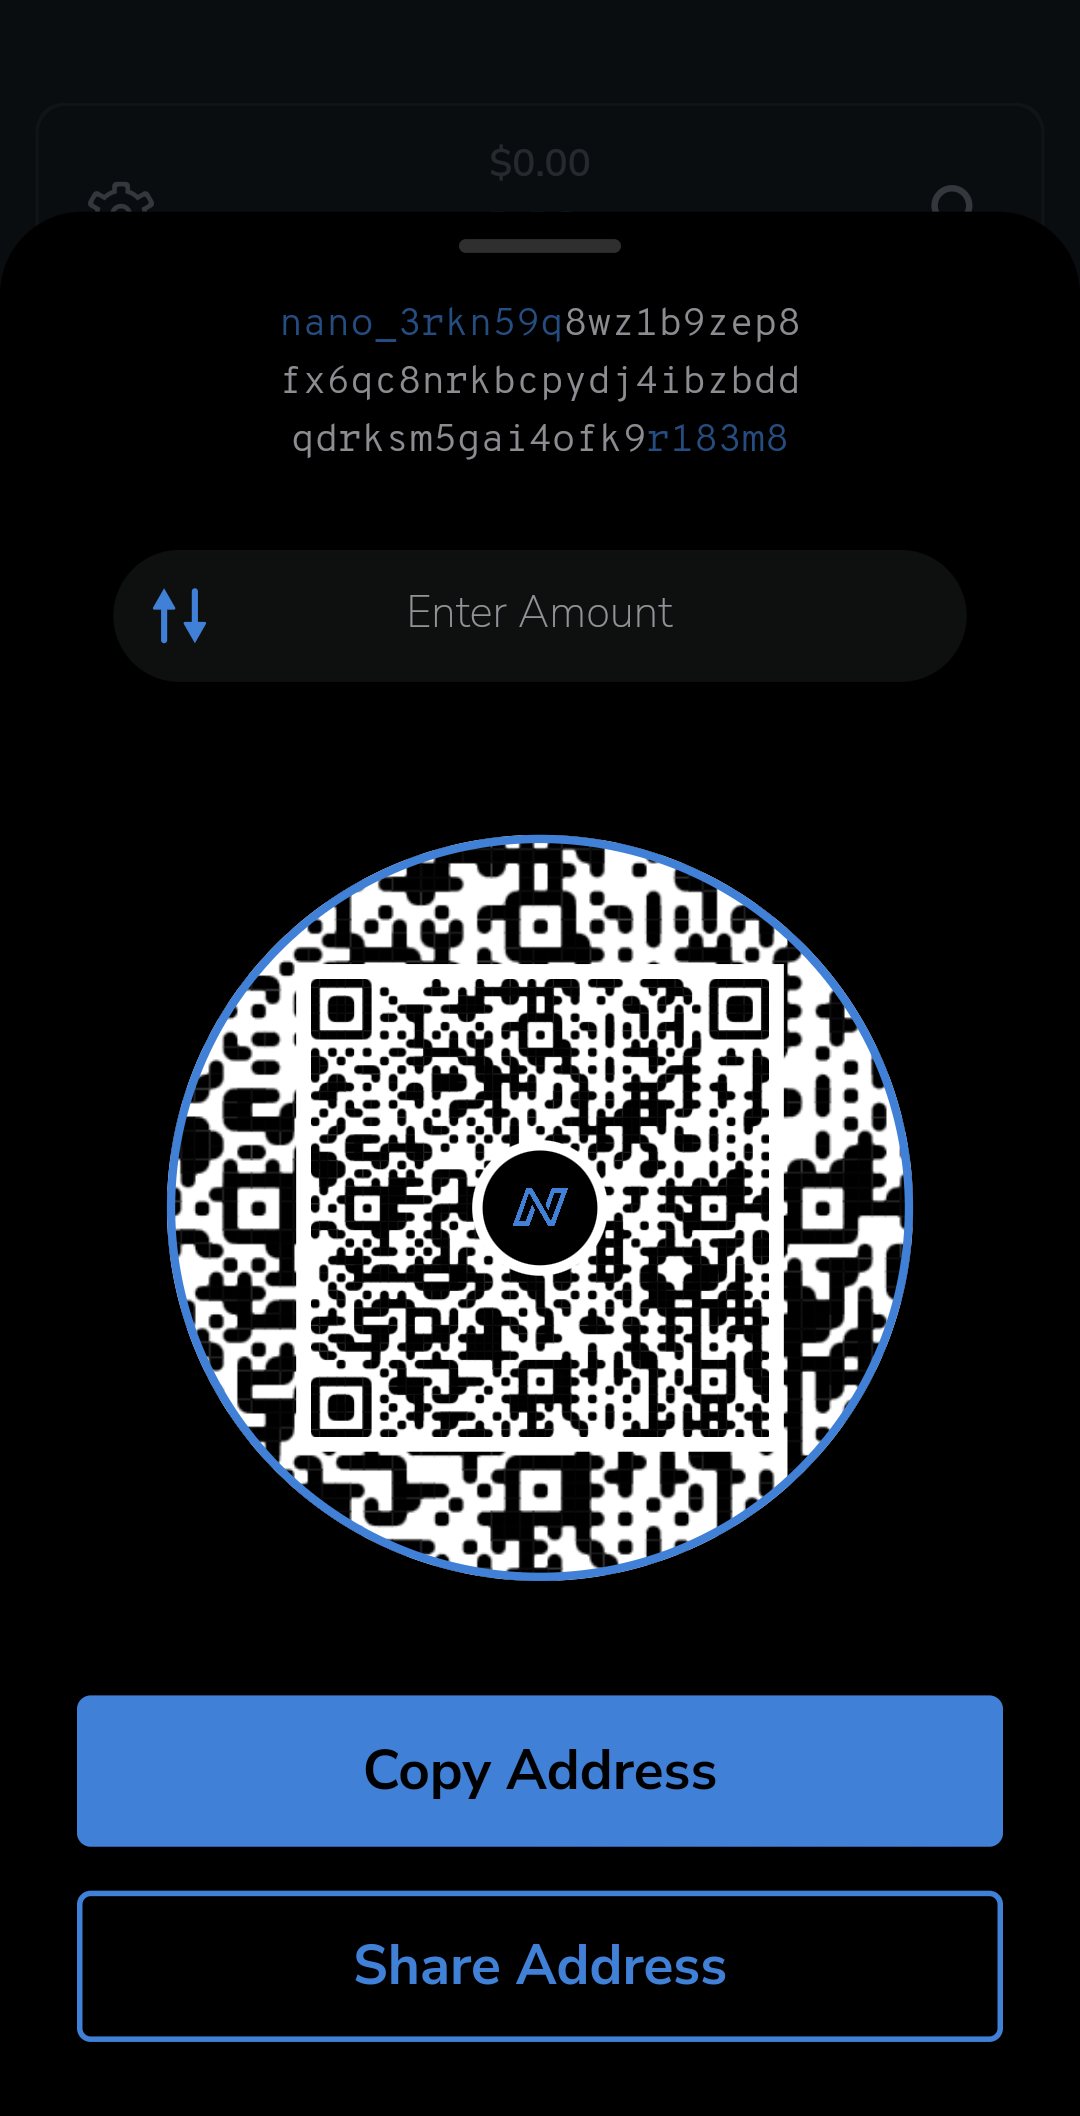
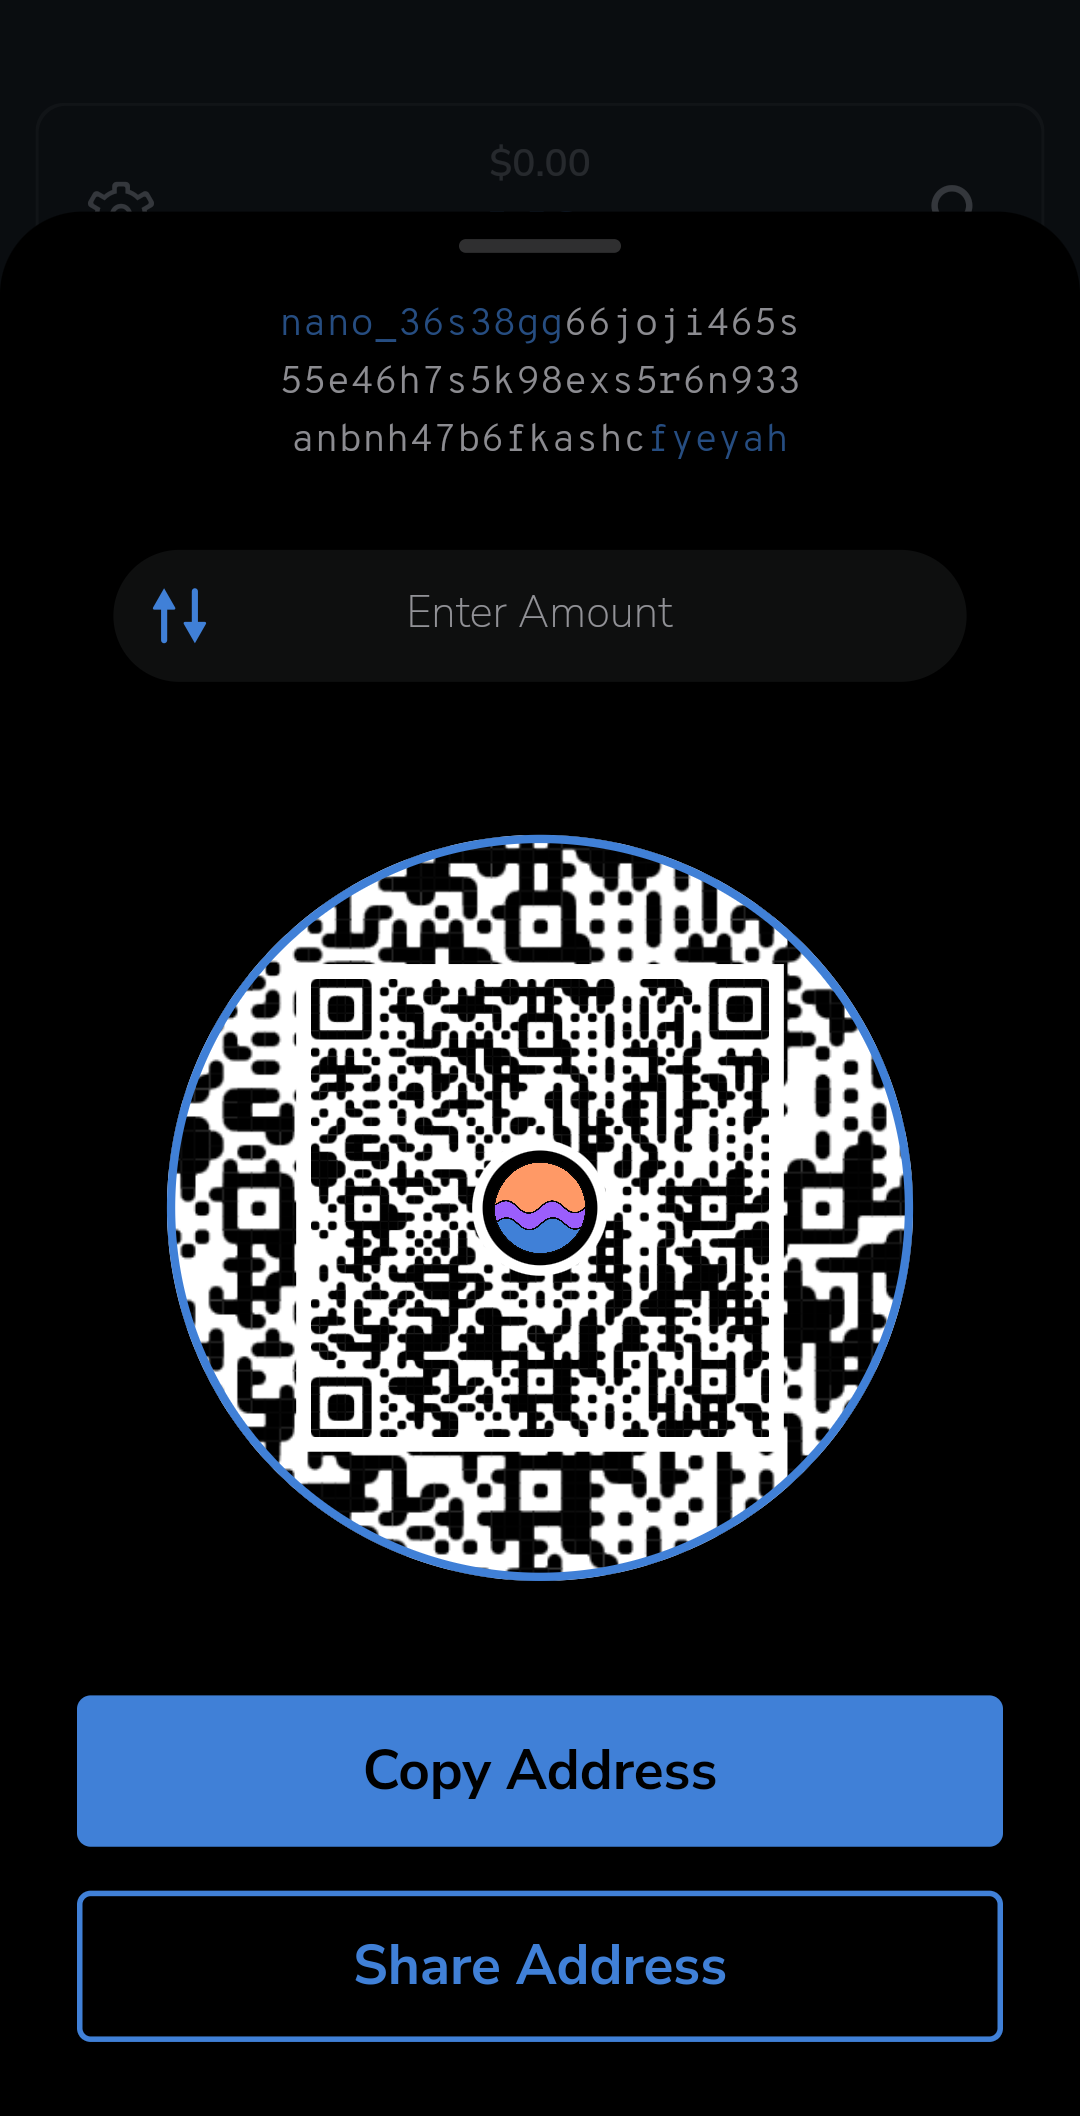
update screenshots

diff --git a/lib/ui/settings/backupseed_qr_sheet.dart b/lib/ui/settings/backupseed_qr_sheet.dart
@@ -148,7 +148,7 @@ class _BackupSeedQRSheetStateState extends State<BackupSeedQRSheet> {
                                       ),
                                     ),
                                   ),
-                                  const Image(image: AssetImage("assets/logo-square.png")),
+                                  const Image(image: AssetImage("assets/logo.png")),
                                 ),
                               ),
                             // This is for hiding the share card
@@ -228,7 +228,7 @@ class _BackupSeedQRSheetStateState extends State<BackupSeedQRSheet> {
                                 height: computedMaxSize / 8,
                                 child: ClipRRect(
                                   borderRadius: BorderRadius.circular(8.0),
-                                  child: const Image(image: AssetImage("assets/logo-square.png")),
+                                  child: const Image(image: AssetImage("assets/logo.png")),
                                 ),
                               ),
                             ),

diff --git a/lib/ui/receive/receive_sheet.dart b/lib/ui/receive/receive_sheet.dart
@@ -252,7 +252,7 @@ class _ReceiveSheetStateState extends State<ReceiveSheet> {
                                       ),
                                     ),
                                   ),
-                                  const Image(image: AssetImage("assets/logo-square.png")),
+                                  const Image(image: AssetImage("assets/logo.png")),
                                 ),
                               ),
                             // This is for hiding the share card
@@ -332,7 +332,7 @@ class _ReceiveSheetStateState extends State<ReceiveSheet> {
                                 height: computedMaxSize / 8,
                                 child: ClipRRect(
                                   borderRadius: BorderRadius.circular(8.0),
-                                  child: const Image(image: AssetImage("assets/logo-square.png")),
+                                  child: const Image(image: AssetImage("assets/logo.png")),
                                 ),
                               ),
                             ),

diff --git a/lib/ui/gift/gift_qr_sheet.dart b/lib/ui/gift/gift_qr_sheet.dart
@@ -188,7 +188,7 @@ class _GiftQRSheetStateState extends State<GiftQRSheet> {
                                       ),
                                     ),
                                   ),
-                                  const Image(image: AssetImage("assets/logo-square.png")),
+                                  const Image(image: AssetImage("assets/logo.png")),
                                 ),
                               ),
                             // This is for hiding the share card
@@ -268,7 +268,7 @@ class _GiftQRSheetStateState extends State<GiftQRSheet> {
                                 height: computedMaxSize / 8,
                                 child: ClipRRect(
                                   borderRadius: BorderRadius.circular(8.0),
-                                  child: const Image(image: AssetImage("assets/logo-square.png")),
+                                  child: const Image(image: AssetImage("assets/logo.png")),
                                 ),
                               ),
                             ),

diff --git a/lib/ui/send/send_sheet.dart b/lib/ui/send/send_sheet.dart
@@ -385,7 +385,7 @@ class _SendSheetState extends State<SendSheet> {
                     style: AppStyles.textStyleParagraph(context),
                     children: [
                       TextSpan(
-                        text: "${address}\n",
+                        text: "$address\n",
                         style: AppStyles.textStyleParagraphPrimary(context),
                       ),
                     ],
